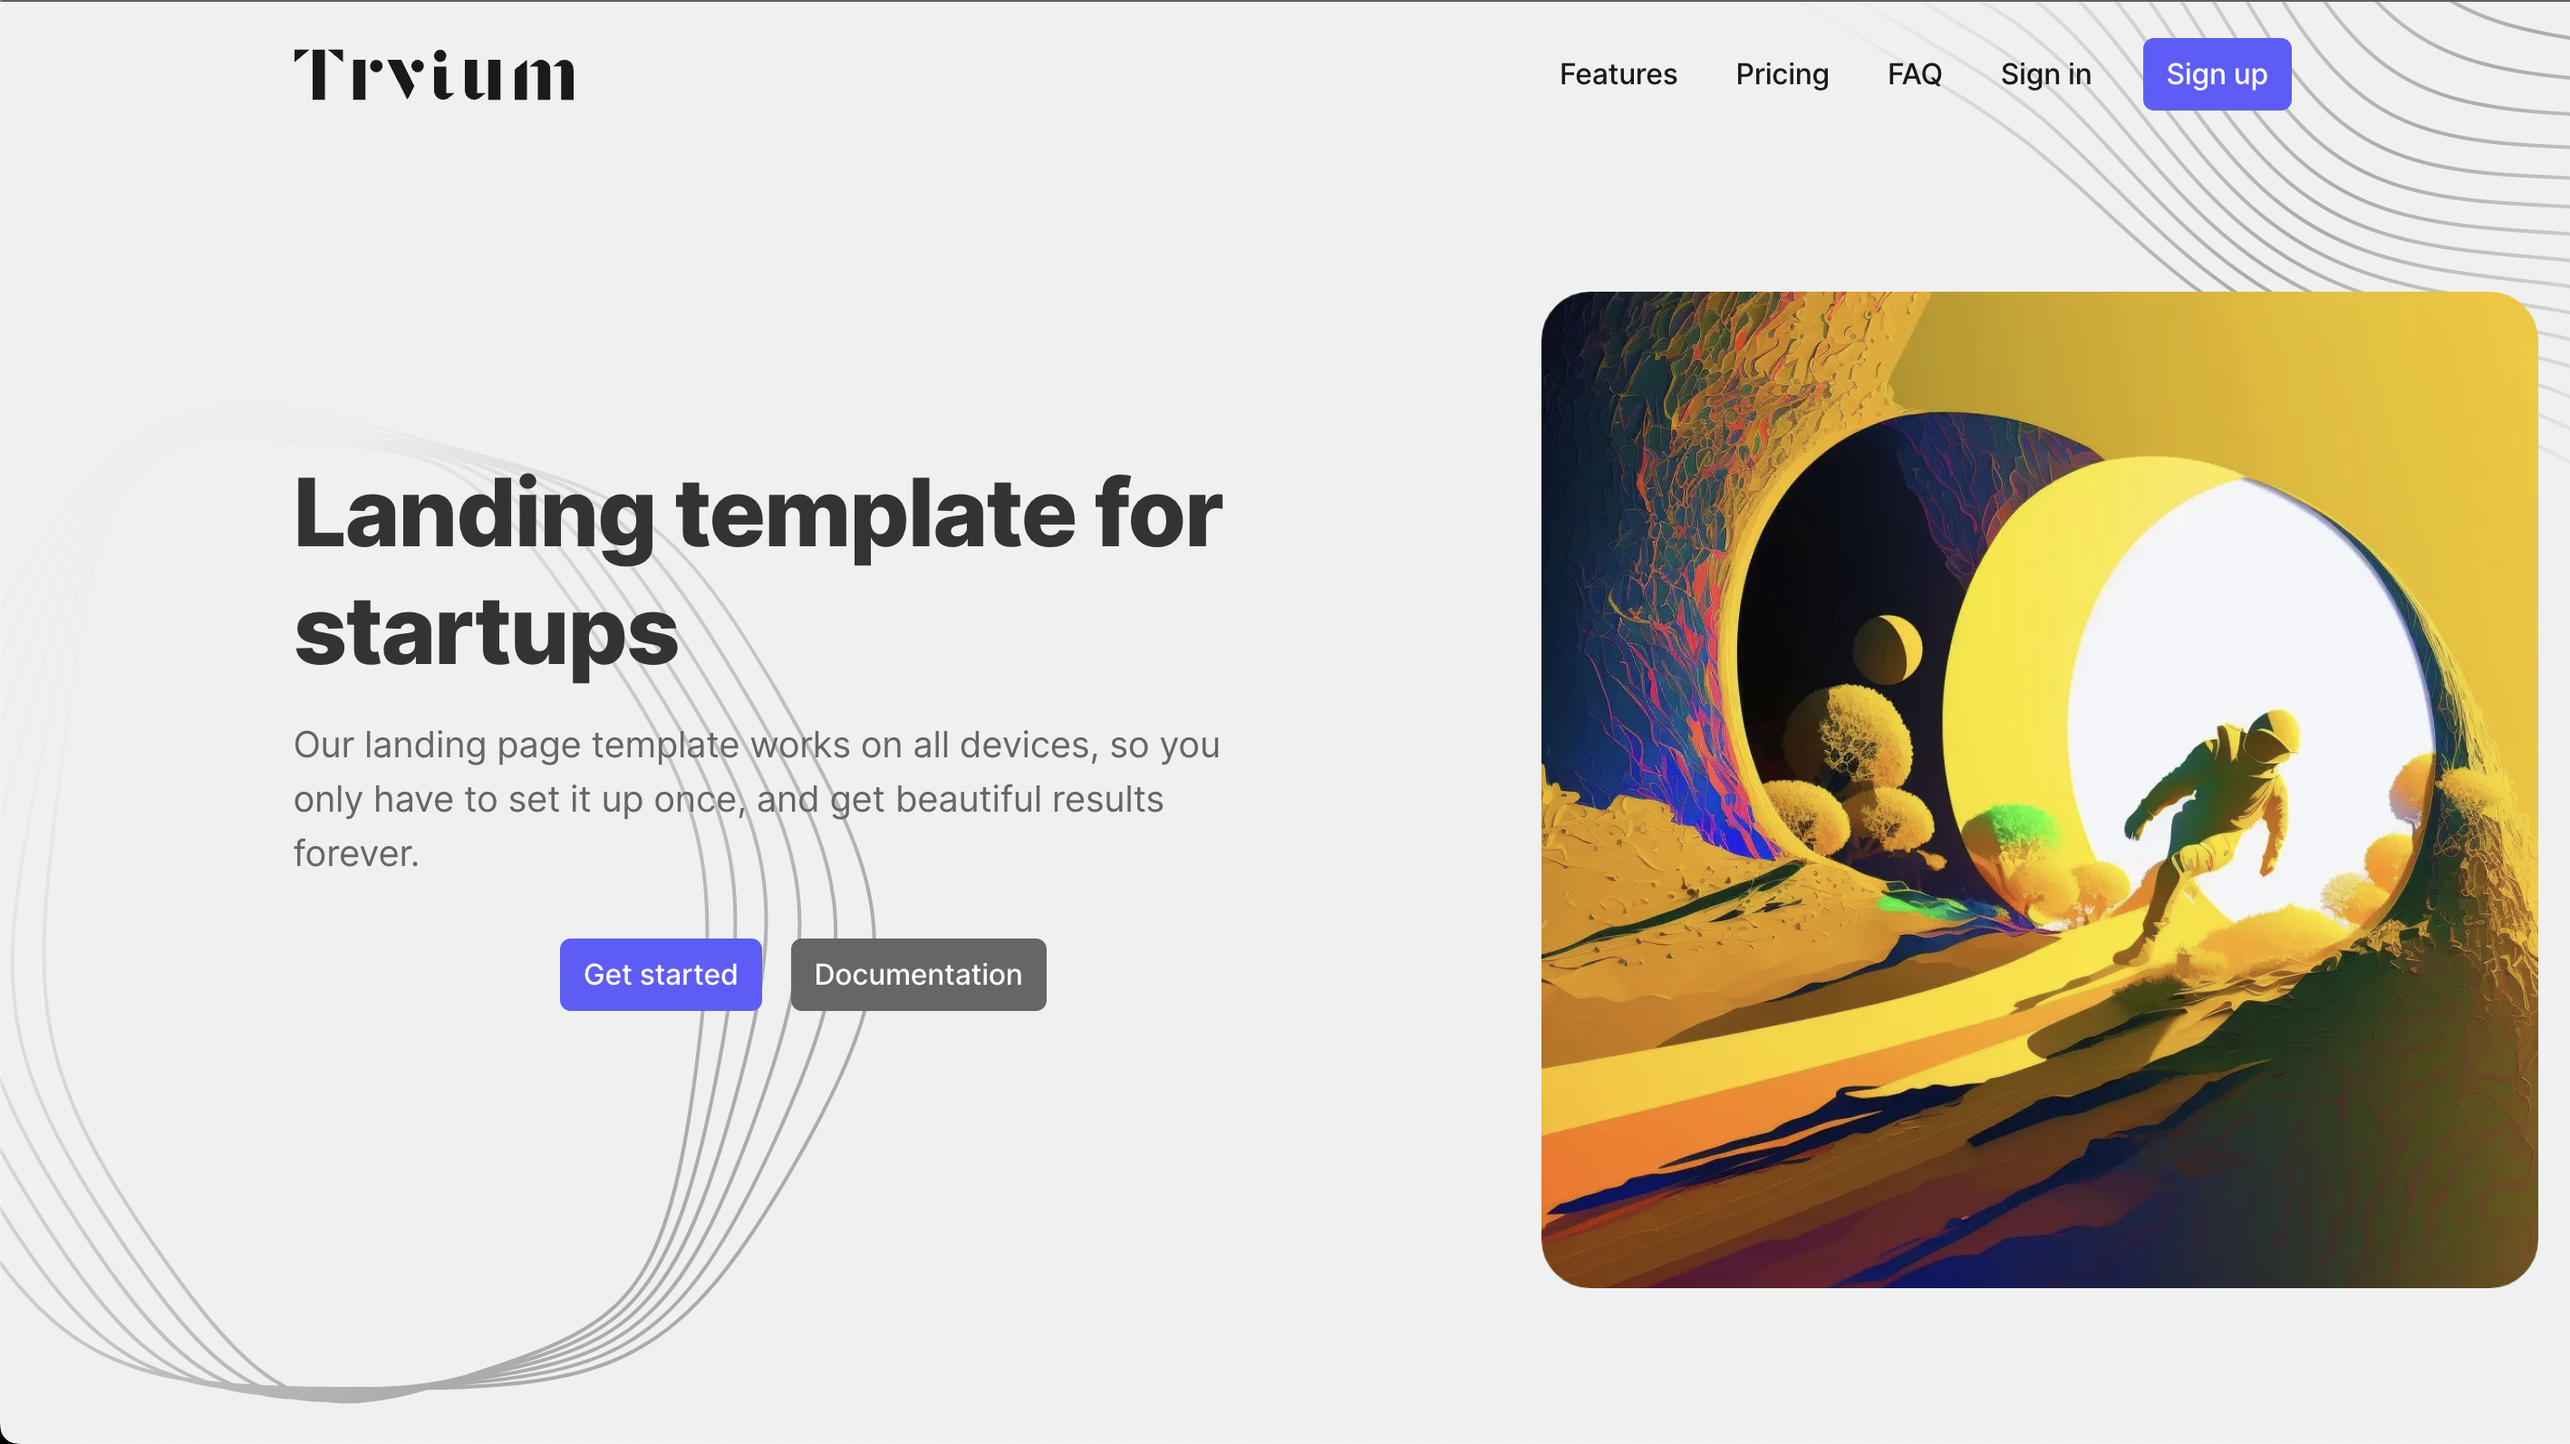
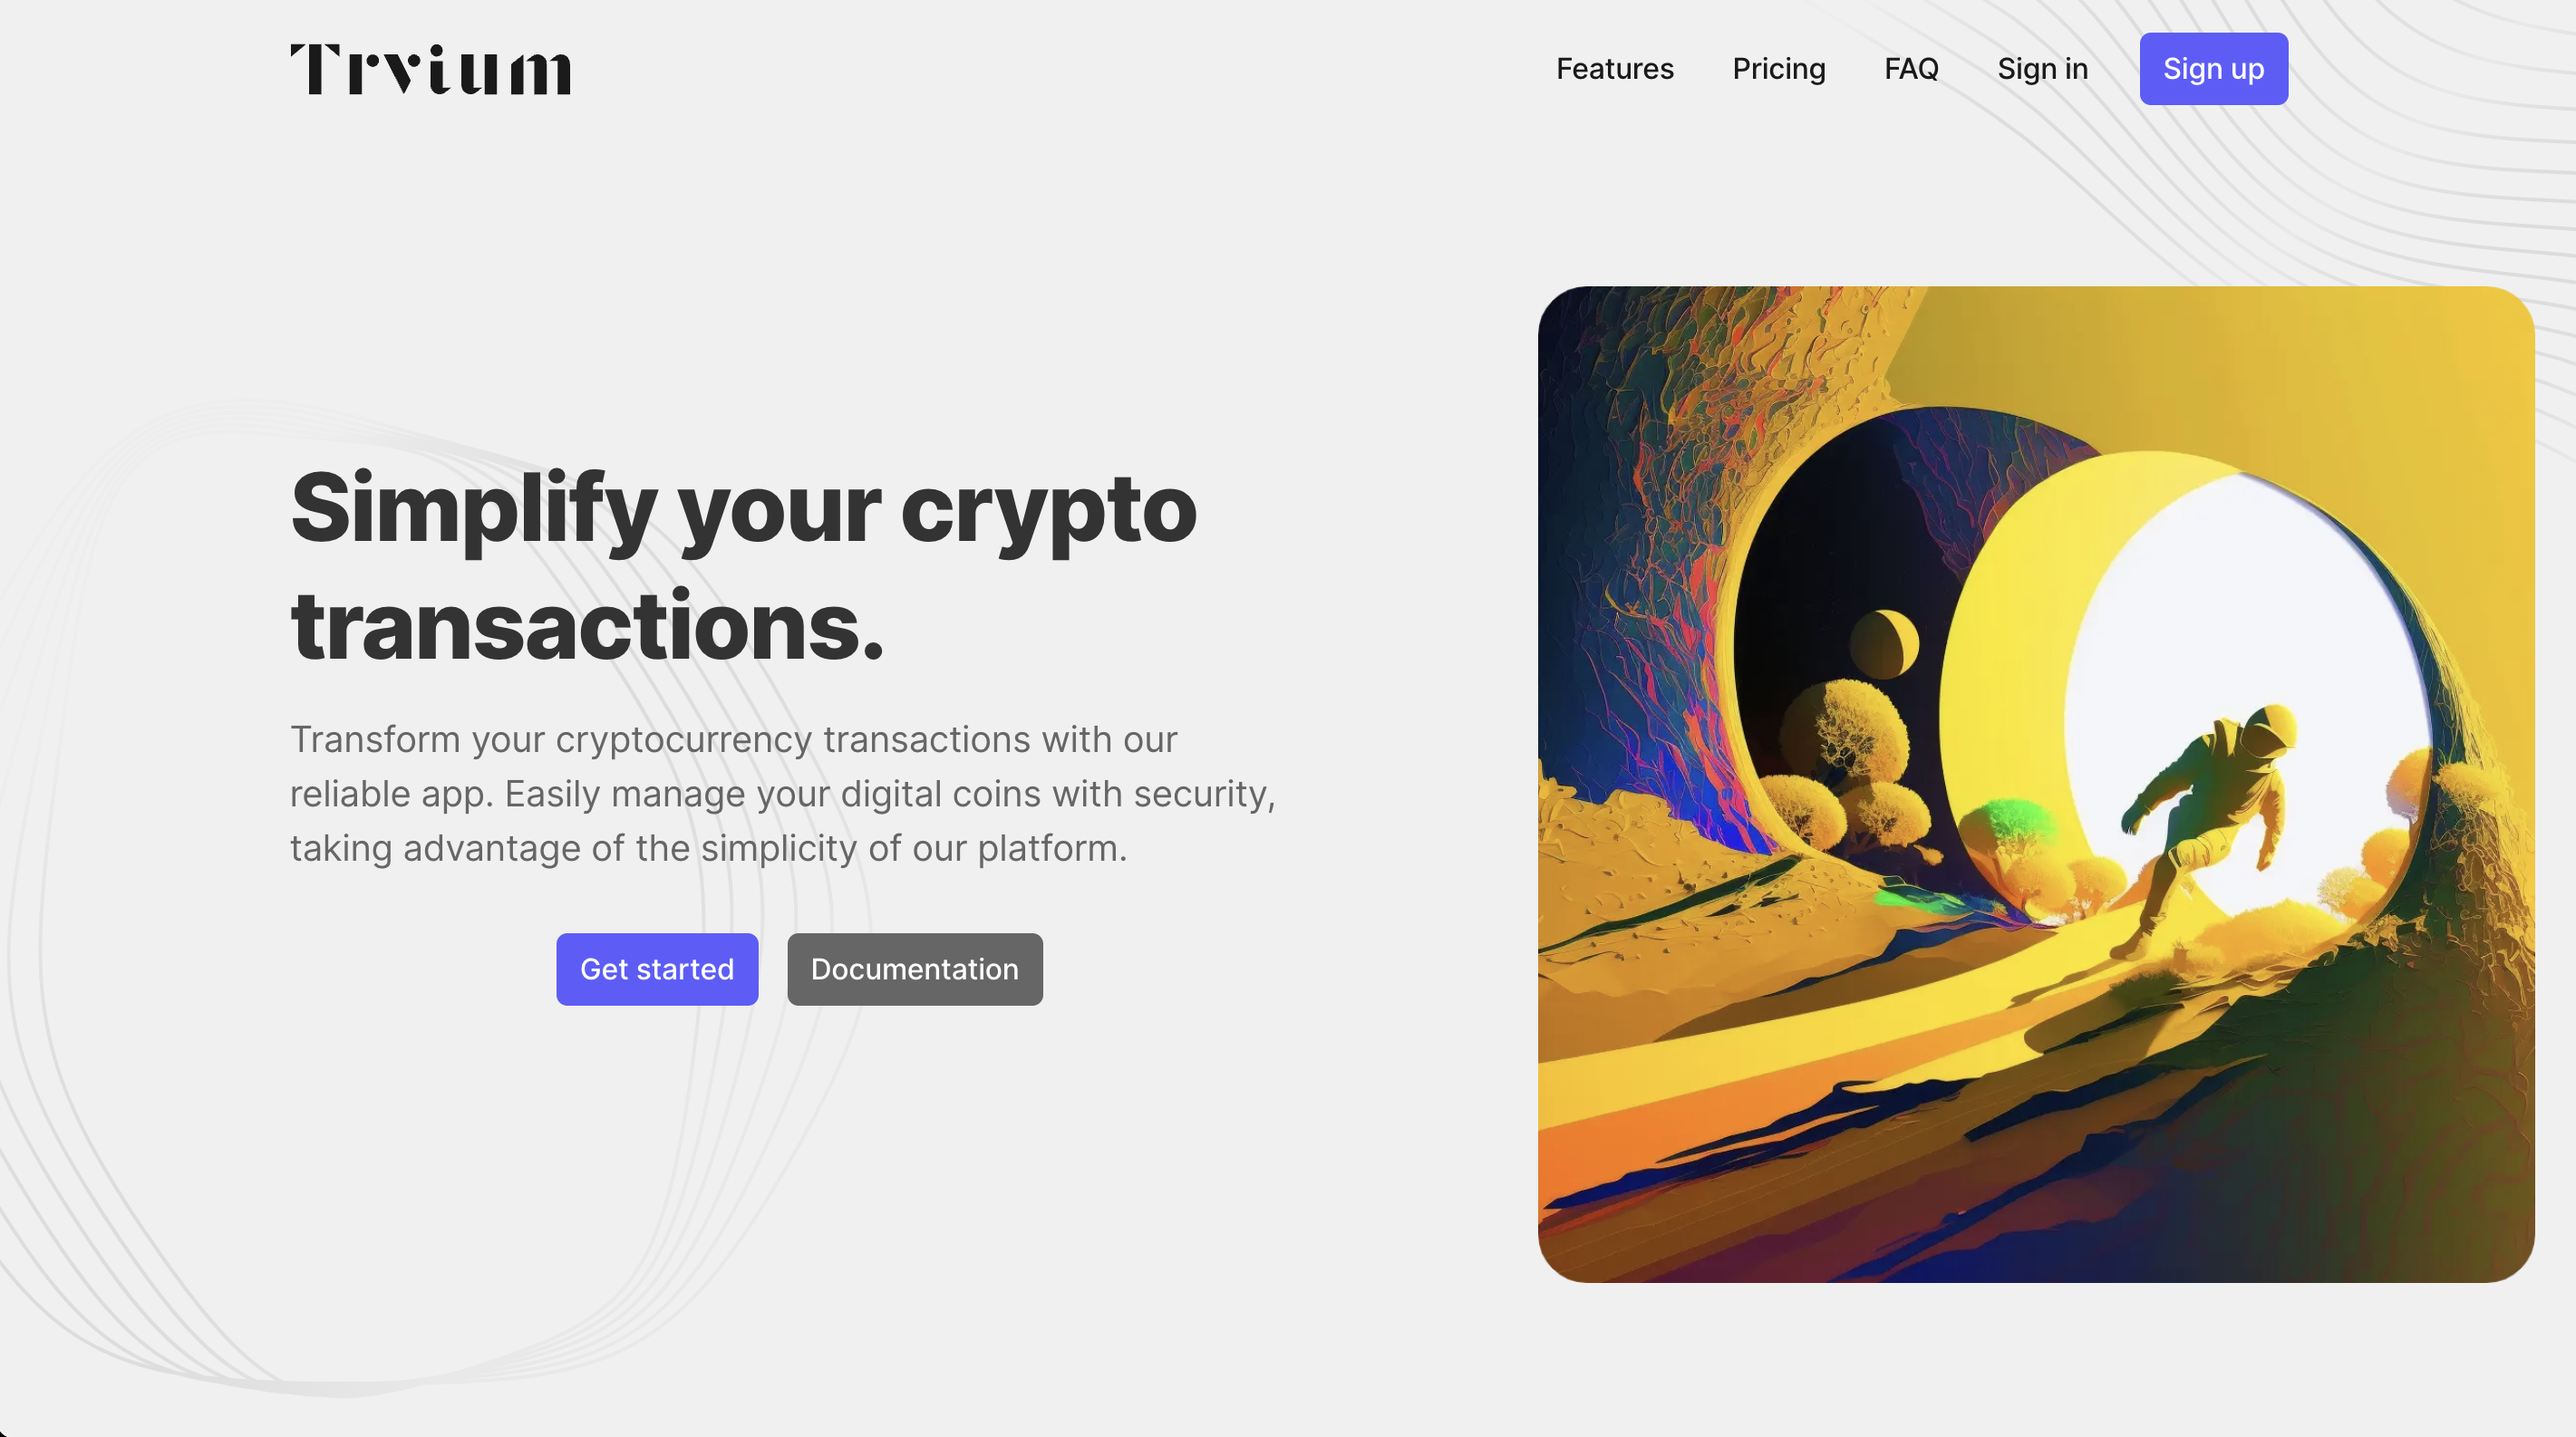
docs: readme updated

diff --git a/components/hero.tsx b/components/hero.tsx
@@ -14,7 +14,7 @@ export default function Hero() {
             <defs>
               <linearGradient id="illustration-02" x1="-3.766" y1="300.204" x2="284.352" y2="577.921" gradientUnits="userSpaceOnUse">
                 <stop stopColor="#1A1A1A" stopOpacity=".01" />
-                <stop offset="1" stopColor="#1A1A1A" stopOpacity=".32" />
+                <stop offset="1" stopColor="#D9D9D9" stopOpacity=".32" />
               </linearGradient>
             </defs>
             <path fillRule="evenodd" clipRule="evenodd" d="M151.631 22.954c19.025-13.987 40.754-20.902 67.157-20.902 18.865 0 40.12 3.534 64.461 10.542 15.855 4.566 30.274 8.448 43.282 11.908-3.117-.73-6.316-1.474-9.604-2.238-13.789-3.205-29.419-6.84-46.941-11.331C153.37-18.963 125.867 40.456 75.939 148.322l-.003.006a7576.221 7576.221 0 01-7.711 16.624c-29.474 63.279-43.616 99.759-44.264 135.927-.659 36.738 12.251 72.311 47.633 131.253 35.391 58.957 60.19 86.192 91.501 100.484.962.439 1.93.865 2.905 1.279-9.73-2.472-18.561-5.625-26.916-9.633-32.753-15.71-57.88-43.982-92.714-104.315-34.834-60.333-46.755-96.23-43.984-132.449 2.732-35.713 20.082-71.213 55.526-132.603a7349.326 7349.326 0 009.317-16.2l.004-.007c29.787-51.892 53.315-92.88 84.398-115.734zm34.507 514.934a241.712 241.712 0 01-5.151-.83c-5.964-1.702-11.607-3.772-17.062-6.262-30.898-14.104-55.459-41.124-90.616-99.693-35.167-58.584-48-93.868-47.349-130.187.642-35.809 14.725-72.101 44.078-135.12 2.513-5.395 4.96-10.683 7.356-15.857l.357-.771.002-.005c24.651-53.256 44.122-95.32 71.478-119.633 18.318-16.282 40.065-24.26 67.588-24.26 15.567 0 32.985 2.554 52.67 7.6 14.706 3.77 28.076 6.935 40.144 9.75-2.797-.558-5.665-1.125-8.609-1.707h-.003l-.003-.001-.053-.01h-.001c-12.823-2.535-27.354-5.407-43.664-9.044C148.495-12.404 126.33 48.27 86.092 158.42l-.004.011-.016.042a8434.991 8434.991 0 01-6.201 16.936c-23.765 64.604-34.847 101.709-33.55 137.844C47.638 349.957 61.359 384.852 96.945 442c35.541 57.077 59.736 83.093 89.193 95.888zm16.598 2.005a338.416 338.416 0 01-8.148-.869 103.656 103.656 0 01-7.5-2.904c-28.737-12.428-53.535-39.114-88.445-95.176-35.381-56.82-49.02-91.447-50.323-127.762-1.285-35.802 9.756-72.729 33.428-137.083 1.94-5.276 3.831-10.449 5.683-15.517l.007-.017.007-.021.522-1.427c19.862-54.372 35.55-97.317 59.408-122.911C172.358 9.403 206.126 2.494 256.864 13.81c13.649 3.043 26.048 5.55 37.243 7.773-2.531-.411-5.124-.828-7.785-1.255l-.071-.011h-.003c-11.906-1.914-25.397-4.082-40.56-6.926C144.349-5.618 127.156 56.06 95.945 168.03l-.003.009a8355.73 8355.73 0 01-4.821 17.248c-18.45 65.652-26.689 103.234-23.608 139.244 3.09 36.109 18.017 71.465 53.24 126.105 33.482 51.938 56.333 76.988 81.983 89.257zm15.827 1.2a485.788 485.788 0 01-9.653-.664l-.264-.107c-27.037-11.022-51.209-36.471-86.212-90.77-35.484-55.044-49.829-88.975-52.928-125.19-3.055-35.705 5.157-73.119 23.541-138.534a8620.925 8620.925 0 004.497-16.087l.325-1.165.002-.006c15.402-55.255 27.568-98.9 48.147-125.608 16.123-20.925 37.347-30.952 66.801-30.952 9.869 0 20.667 1.127 32.5 3.347 12.636 2.37 24.106 4.27 34.467 5.944-2.277-.28-4.608-.562-6.997-.85h-.001l-.001-.001h-.001c-11.054-1.338-23.584-2.855-37.688-4.97-94.204-14.122-106.775 48.314-129.594 161.65l-.003.014-.047.235-.002.008a8400.92 8400.92 0 01-3.479 17.22c-13.513 66.44-19.115 104.361-14.4 140.163 4.727 35.898 20.289 70.48 55.506 123.345 31.385 47.111 52.956 71.08 75.484 82.978zm15.539.719a709.825 709.825 0 01-10.437-.441c-23.548-10.908-46.233-35.298-78.922-84.366-35.486-53.268-50.443-86.468-55.187-122.497-3.728-28.301-2.526-56.394 14.377-139.503 1.21-5.95 2.383-11.773 3.529-17.466 11.26-55.927 20.154-100.102 37.666-127.768 18.294-28.901 45.951-38.863 89.673-32.313 11.708 1.755 22.326 3.099 31.917 4.27-2.072-.167-4.193-.334-6.366-.505h-.002l-.018-.002c-10.221-.803-21.804-1.714-34.864-3.146-87.388-9.576-95.67 53.388-110.705 167.692l-.002.014-.047.36c-.74 5.623-1.496 11.372-2.28 17.244-8.937 66.993-12.098 105.125-5.896 140.639 6.221 35.612 22.326 69.391 57.443 120.48 29.544 42.981 49.981 65.798 70.121 77.308zm54.655.656c-2.322.006-4.68.009-7.073.009-15.823 0-30.079-.135-43.037-.519-20.923-10.699-42.32-33.928-73.018-78.587-35.393-51.49-50.874-83.93-57.12-119.691-4.907-28.091-5.274-56.21 5.907-140.03.786-5.887 1.544-11.65 2.286-17.287v-.001l.042-.32c7.418-56.4 13.278-100.948 27.923-129.427 13.148-25.57 33.385-37.482 64.556-37.482 5.049 0 10.388.312 16.027.93 13.049 1.43 24.617 2.341 34.829 3.145h.001l.114.009h.001c59.526 4.682 79.579 6.26 136.926 89.687 36.003 52.377 54.831 83.312 64.453 117.449 9.765 34.64 10.139 71.93 1.38 137.589-8.64 64.766-18.645 98.41-35.683 119.994-16.965 21.491-41.268 32.104-86.06 46.46-1.661.532-3.296 1.052-4.905 1.56a1391.5 1391.5 0 01-10.245 2.482 1345.267 1345.267 0 01-11.347 1.958 1812.762 1812.762 0 01-12.481 1.367 2129.386 2129.386 0 01-13.476.705zm27.18 1.709c50.448-1.039 82.218-5.164 109.211-18.112 33.159-15.904 58.522-44.394 93.581-105.118 35.06-60.724 47.051-96.934 44.246-133.603-2.762-36.096-20.19-71.792-55.788-133.449-56.949-98.64-86.21-106.404-173.068-129.448l-.056-.014c-14.774-3.92-31.516-8.363-50.261-13.76C159.031-25.254 125.808 32.624 65.497 137.694l-.002.003a6915.634 6915.634 0 01-9.316 16.197C20.581 215.552 3.154 251.247.392 287.344c-2.806 36.669 9.186 72.879 44.245 133.603 35.06 60.724 60.423 89.214 93.582 105.118 12.593 6.04 26.224 10.16 42.307 12.943 6.906 1.966 14.23 3.443 22.172 4.508 6.442 1.628 13.241 2.748 20.583 3.429 5.999 1.314 12.297 2.105 19.071 2.433 5.603 1.028 11.455 1.517 17.722 1.517l.314-.001c3.67.505 7.416.742 11.25.742 13.466 0 28.027-2.926 44.299-7.459zm18.196-2.551c42.427-3.518 69.755-9.295 92.704-22.832 29.646-17.487 51.462-47.164 80.495-109.498 29.027-62.318 38.148-99.046 33.653-135.513-4.425-35.901-22.303-70.703-58.23-130.556-39.939-66.535-65.307-89.912-104.239-104.3 53.844 16.863 81.528 37.31 126.939 115.968 35.443 61.39 52.793 96.891 55.525 132.603 2.772 36.219-9.149 72.116-43.983 132.449-34.834 60.333-59.962 88.605-92.714 104.315-23.296 11.175-50.3 15.706-90.15 17.364zm93.883-30.185c-20.416 14.652-45.267 21.74-84.153 27.302 36.558-3.571 61.14-9.392 81.957-21.671 29.256-17.257 50.857-46.697 79.7-108.619 28.849-61.94 37.924-98.373 33.479-134.425-4.381-35.543-22.179-70.166-57.959-129.772-45.707-76.146-72.185-95.334-122.253-109.565 36.374 12.515 60.888 34.697 100.963 99.056 36.138 58.035 54.382 91.924 60.326 127.553 6.035 36.185-.421 73.291-23.824 136.909-23.412 63.646-41.906 94.334-68.236 113.232zm-75.097 23.912c35.377-7.423 57.817-15.704 75.801-31.314 23.206-20.143 38.593-51.68 56.77-116.363 18.167-64.644 22.158-101.999 14.722-137.83-7.323-35.285-25.856-68.245-62.092-124.454-40.109-62.219-63.784-83.239-97.755-94.01 46.513 11.797 71.824 29.769 117.688 103.423 35.995 57.806 54.162 91.528 60.05 126.824 5.972 35.804-.459 72.634-23.728 135.889-22.96 62.416-41.892 93.9-67.525 112.298-18.433 13.228-40.651 20.217-73.931 25.537zm76.065-38.742c-16.398 17.18-38.639 26.625-66.953 34.691 29.631-6.852 49.359-14.869 65.378-28.773 22.583-19.603 38.327-51.956 56.156-115.394 18.071-64.301 22.052-101.4 14.688-136.882-7.258-34.975-25.716-67.78-61.814-123.777-45.857-71.136-70.036-87.963-113.146-97.515 31.663 9.156 54.508 29.065 94.518 89.127 36.23 54.385 54.981 86.404 63.553 121.278 8.703 35.411 6.992 72.898-6.313 138.315-13.314 65.463-25.8 97.696-46.067 118.93zm-59.762 30.414c25.551-9.413 45.464-19.917 59.62-37.85 17.506-22.178 27.29-54.964 36.094-120.97 8.799-65.956 8.41-103.465-1.437-138.395-4.847-17.196-12.323-34.408-23.53-54.17-10.572-18.643-24.116-39.015-41.2-63.869-39.854-57.98-61.888-76.799-91.408-84.443 39.946 7.477 63.031 23.183 108.786 91.868 36.098 54.188 54.774 86.063 63.275 120.648 8.626 35.092 6.91 72.342-6.33 137.439-13.062 64.216-25.834 97.286-45.555 117.947-13.941 14.607-31.58 23.548-58.315 31.795z" fill="url(#illustration-02)" />

diff --git a/components/page-illustration.tsx b/components/page-illustration.tsx
@@ -7,7 +7,7 @@ export default function PageIllustration() {
         <defs>
           <linearGradient id="illustration-01" x1="-4.14" y1="43.12" x2="303.145" y2="391.913" gradientUnits="userSpaceOnUse">
             <stop stopColor="#1A1A1A" stopOpacity=".01" />
-            <stop offset=".538" stopColor="#1A1A1A" stopOpacity=".32" />
+            <stop offset=".538" stopColor="#D9D9D9" stopOpacity=".32" />
             <stop offset="1" stopColor="#1A1A1A" stopOpacity=".01" />
           </linearGradient>
         </defs>
